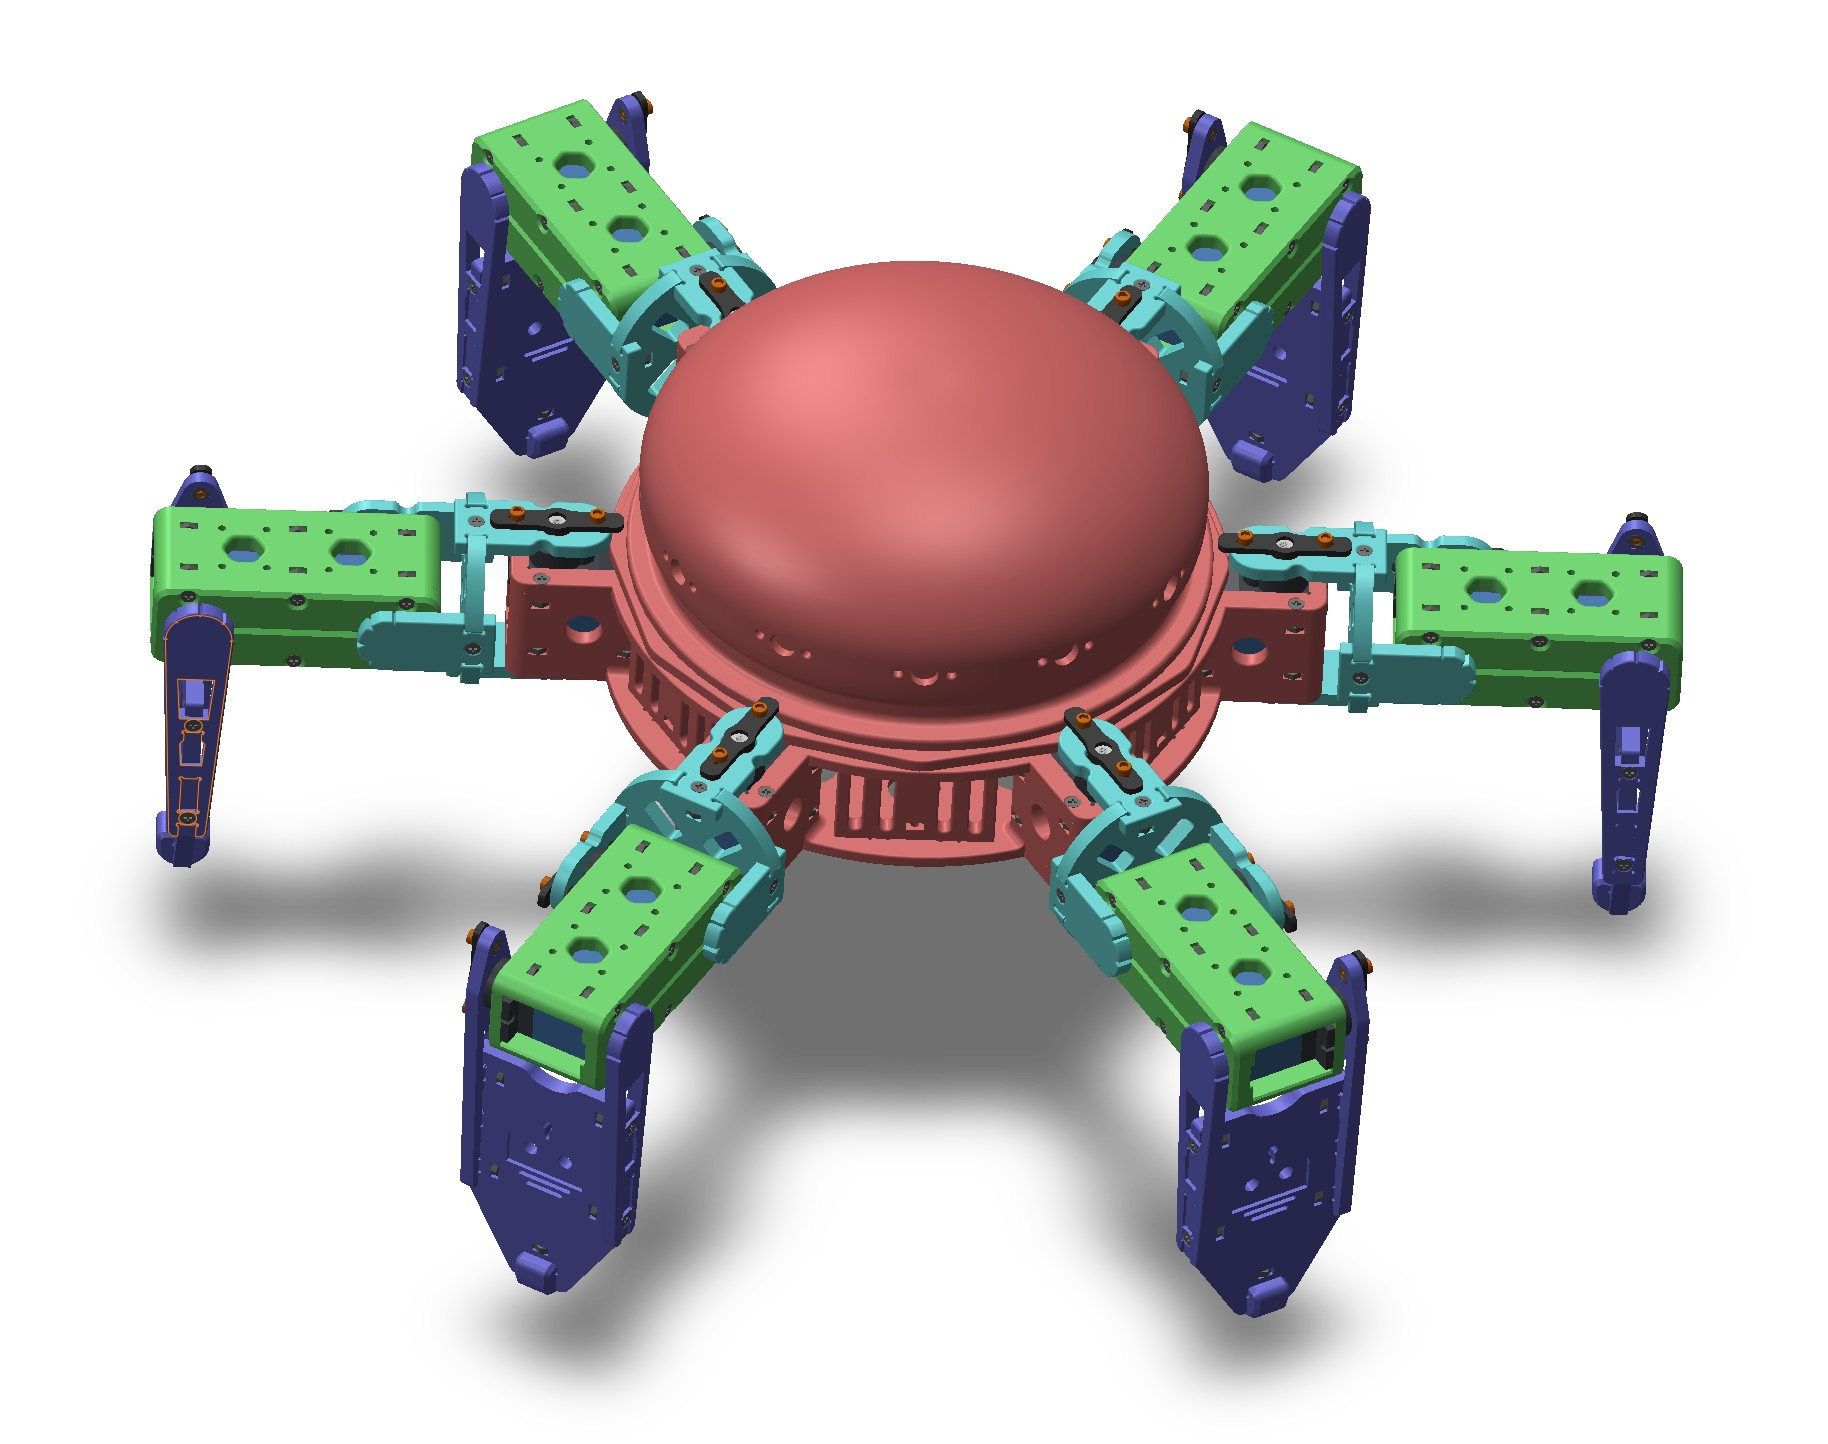
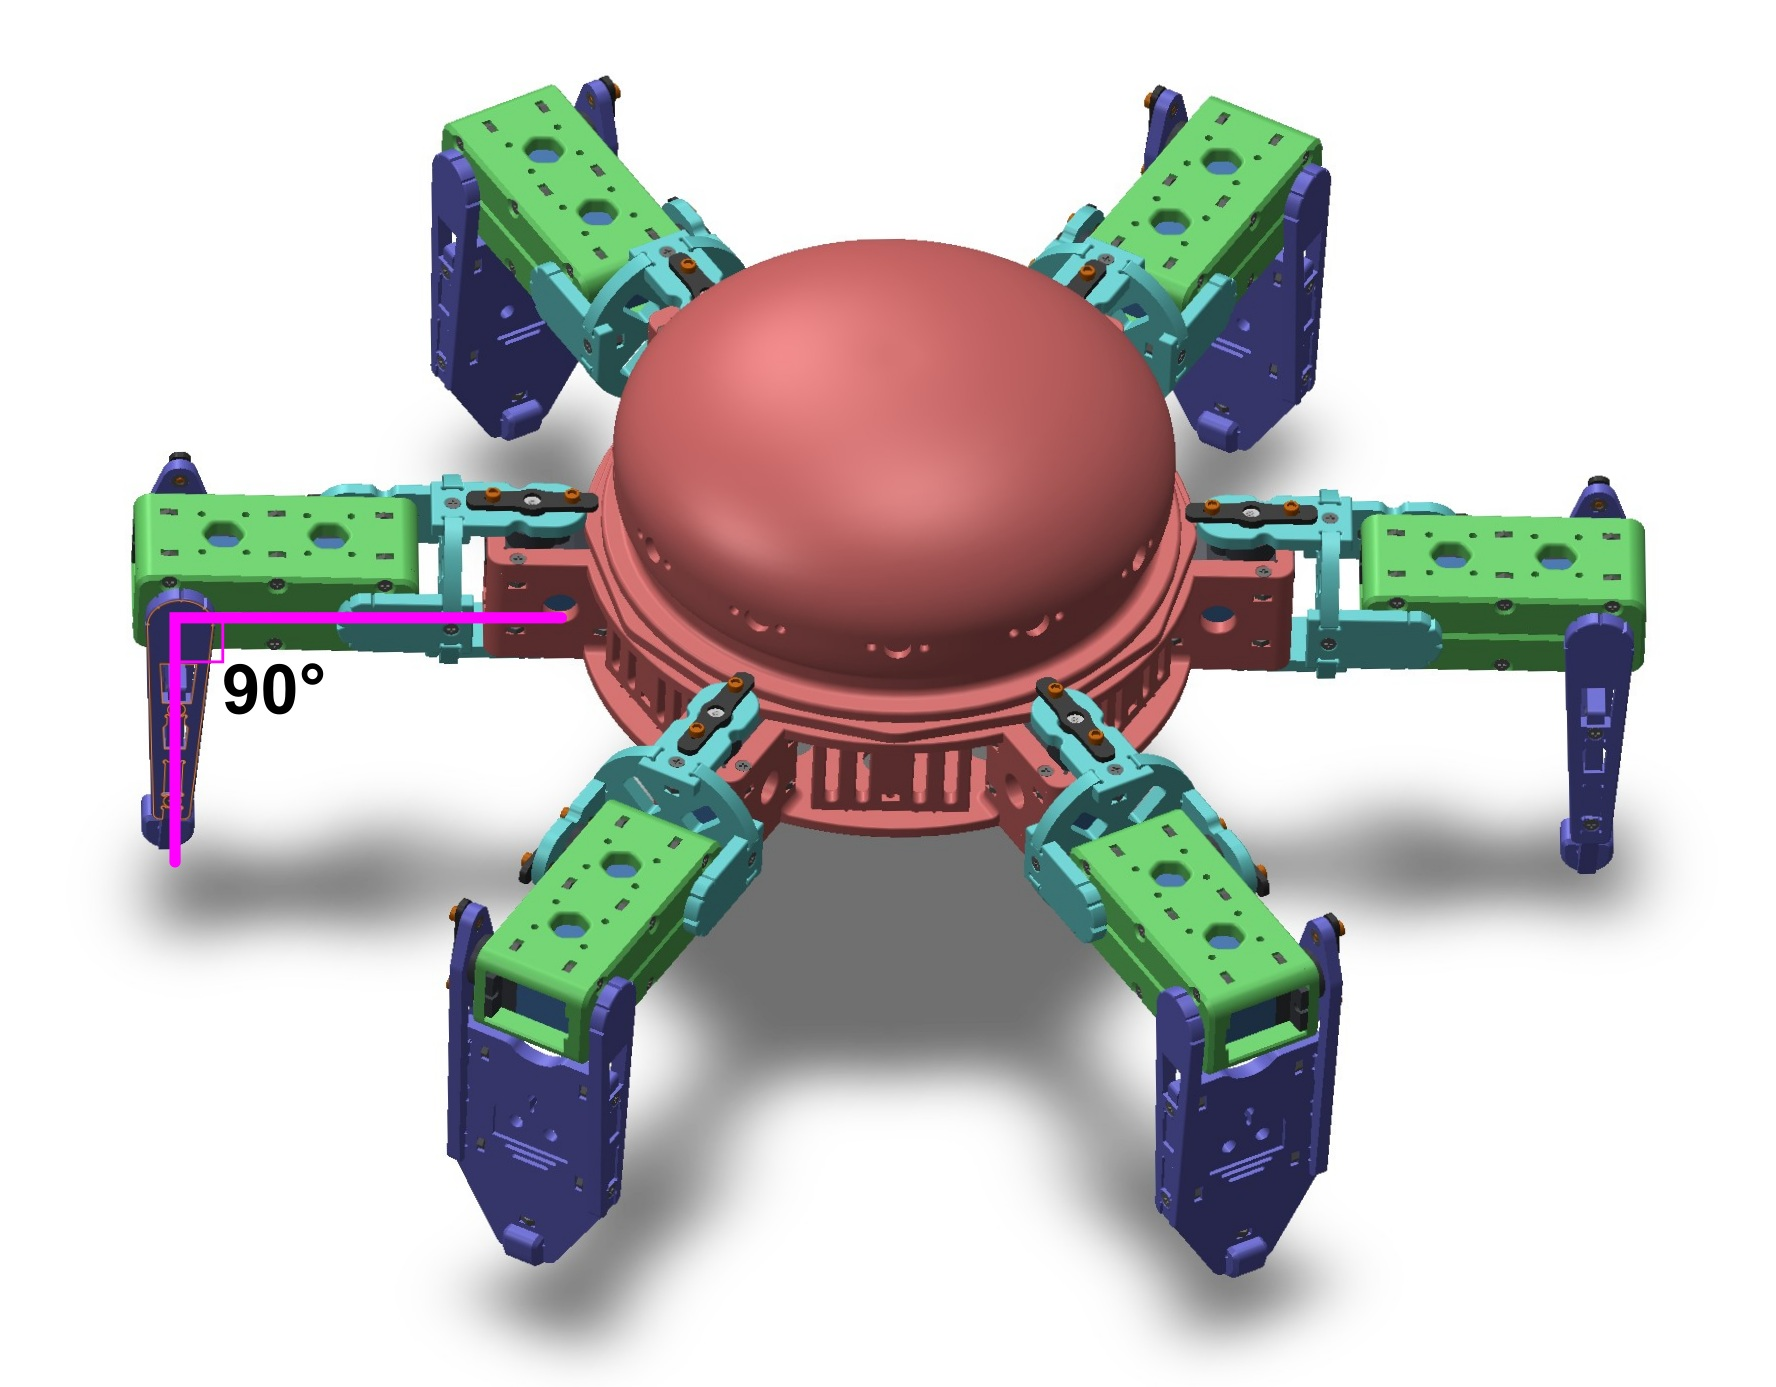
Add web-based calibration interface and update calibration instructions

Changed region(s): [[0.0619, 0.062, 0.9291, 0.9921], [0.4336, 0.7441, 0.5265, 0.8061]]

diff --git a/README.md b/README.md
@@ -15,6 +15,7 @@ This agile, 3D-printed hexapod robot is designed to work with either a Raspberry
 - **Robust, durable structure**: 3D-printed parts designed for strength and easy assembly
 - **WiFi-enabled remote control**: Control your hexapod wirelessly from your smartphone or computer
 - **Smooth, agile movement**: Advanced motion algorithms for natural walking patterns
+- **Web-based calibration interface**: Easy servo calibration through your browser with real-time adjustment
 - **Over-the-air (OTA) firmware updates**: Update firmware without cables for easy maintenance
 
 ### What You'll Build
@@ -60,6 +61,8 @@ Follow these steps in order for the best results:
 4. **Build legs** (joint → leg → foot for each leg)
 5. **Attach legs to body**
 6. **Wire and test** (connect servos, upload firmware, calibrate)
+
+**⚠ Important:** Do NOT tighten the servo horn screws during assembly! Leave them loose to allow for rotation. You'll tighten them properly during the calibration process after adjusting each servo to its correct neutral position.
 
 ![whole_assembly](./images/assembly_whole.gif)
 
@@ -383,53 +386,60 @@ All servos should be at 90° (neutral position) when the legs are in the referen
 
 ### Calibration Procedure
 
+The hexapod now includes a **web-based calibration interface** that makes the calibration process much easier - no need to repeatedly edit code and re-upload firmware!
+
+#### Step 1: Access the Calibration Interface
+
 1. **Upload Firmware**: Flash the code to your controller with default offset values
+2. **Power On**: Connect batteries and turn on the hexapod
+3. **Connect to WiFi**: Join the hexapod's WiFi network (default SSID: `hexapod`)
+4. **Open Browser**: Navigate to `http://192.168.4.1`
 
-2. **Enable Calibration Function** (Optional):
-   - Open the `.ino` file for your controller
-   - Find the commented line `// posture_calibration();` in the `setup()` function
-   - Uncomment it to enable the calibration posture
-   - Re-upload the firmware
+![Calibration Web Interface](./images/calibration_page.jpg)
 
-3. **Power On**: Connect batteries and turn on the hexapod
-   - If you enabled the calibration function, all servos will move to 90° neutral position on boot
-   - Otherwise, the hexapod will boot into standby mode
+#### Step 2: Enter Calibration Mode
 
-4. **Check Leg Positions**: Compare each leg with the reference images below
+1. Click the **"Enter Calibration Mode"** button
+   - The hexapod will stop motion execution
+   - All current offset values will be loaded
+   - A grid showing all 6 legs (18 servos) will appear
+
+2. **Check Leg Positions**: Compare each leg with the reference images below
    - **Coxa (hip) joint**: Should be perpendicular to body
    - **Femur (thigh) joint**: Should be horizontal
    - **Tibia (shin) joint**: Should form 90° angle with femur
 
-5. **Measure Offsets**: For each misaligned servo:
-   - Note which leg (L0-L2 for left, R0-R2 for right)
-   - Note which joint (0=coxa, 1=femur, 2=tibia)
-   - Estimate angle difference in degrees
-   - Convert to ticks (0.44° ≈ 1 tick for most servos)
+#### Step 3: Adjust Offsets
 
-6. **Update config.h**: Edit the offset arrays in `config.h`:
+For each misaligned servo:
 
-   ```c
-   // Left side legs: [L0][L1][L2]
-   // Each leg has [coxa, femur, tibia] offsets
-   static int left_offset_ticks[3][3] = {
-     {-5, 10, 0},    // L0 (left front)
-     {-15, 5, -20},  // L1 (left middle)
-     {20, -10, 10}   // L2 (left rear)
-   };
-   
-   // Right side legs: [R0][R1][R2]
-   static int right_offset_ticks[3][3] = {
-     {20, -10, 0},   // R0 (right front)
-     {-15, 0, -5},   // R1 (right middle)
-     {-10, 0, -20}   // R2 (right rear)
-   };
-   ```
+1. **Locate the servo** in the web interface:
+   - Left column: Left Leg 1, 2, 3
+   - Right column: Right Leg 1, 2, 3
+   - Each leg has 3 joints: Joint 1 (coxa), Joint 2 (femur), Joint 3 (tibia)
 
-7. **Re-upload and Test**: Upload modified code and verify positions
+2. **Adjust the offset value**:
+   - Use **+** and **-** buttons for fine adjustment (±1 tick per click)
+   - Or type a value directly in the input field
+   - Changes apply immediately to the servo
+   - 1 tick ≈ 0.44° for most servos
 
-8. **Fine-tune**: Repeat steps 2-7 until all legs match reference positions
+3. **Observe the movement** and continue adjusting until the servo reaches the correct position
 
-9. **Disable Calibration Mode**: Once calibration is complete, comment out the `posture_calibration();` line again and upload final firmware
+#### Step 4: Save Your Calibration
+
+1. Once all servos are properly aligned, click **"Save Offsets"**
+   - Offset values are saved to **EEPROM** (persistent storage)
+   - Values are also printed to Serial Monitor as backup
+   - The hexapod will remember these values even after power cycles
+
+2. **Now tighten the servo horn screws** - With each servo in its correct neutral position, firmly tighten the small screws on each servo horn to secure them in place
+
+3. Click **"Exit Calibration Mode"** to resume normal operation
+
+#### Step 5: Test Walking
+
+Send a walking command to verify smooth motion. If adjustments are needed, simply re-enter calibration mode and fine-tune.
 
 ### Reference Images
 
@@ -443,25 +453,10 @@ All servos should be at 90° (neutral position) when the legs are in the referen
 
 ### Calibration Tips
 
+- **Use the web interface**: Much faster than editing code and re-uploading
 - **Start with one leg**: Calibrate completely before moving to the next
-- **Make small adjustments**: Change values by ±10-20 ticks at a time
-- **Document your values**: Keep a backup of working offset values
+- **Make small adjustments**: Use the +/- buttons for precise control (±1 tick per click)
+- **Real-time feedback**: Servos respond immediately as you adjust values
+- **Save your work**: Don't forget to click "Save Offsets" when done!
 - **Check screw tightness**: Loose servo horns will affect calibration
-- **Servo horn position**: If offsets exceed ±50 ticks, consider repositioning the servo horn
-
-### Common Calibration Issues
-
-**Leg wobbles during walking:**
-
-- Re-check femur and tibia joint calibration
-- Ensure all mechanical connections are tight
-
-**Hexapod tips to one side:**
-
-- Balance the offset values between left and right legs
-- Check battery placement and weight distribution
-
-**Jerky movements:**
-
-- Calibration likely OK - check power supply voltage
-- Verify servo horn screws are fully tightened
+- **Servo horn position**: If offsets exceed ±25 ticks, consider repositioning the servo horn physically
